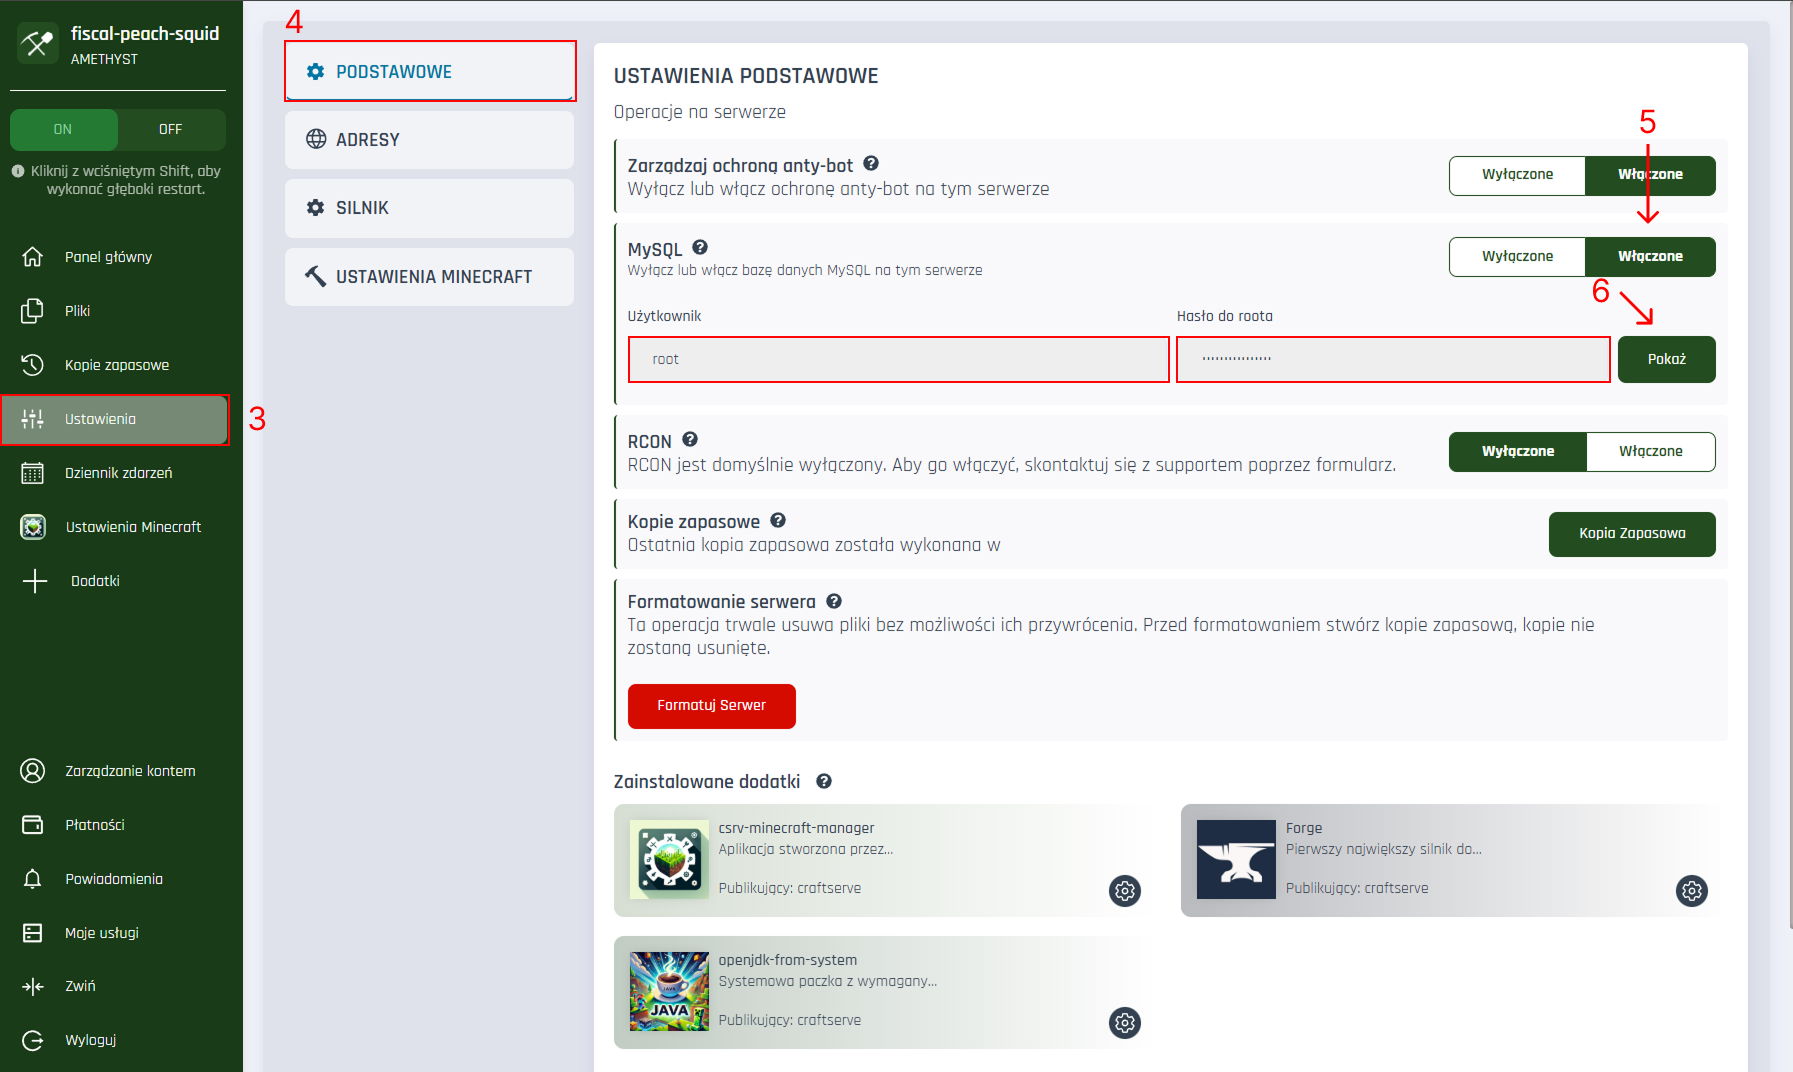
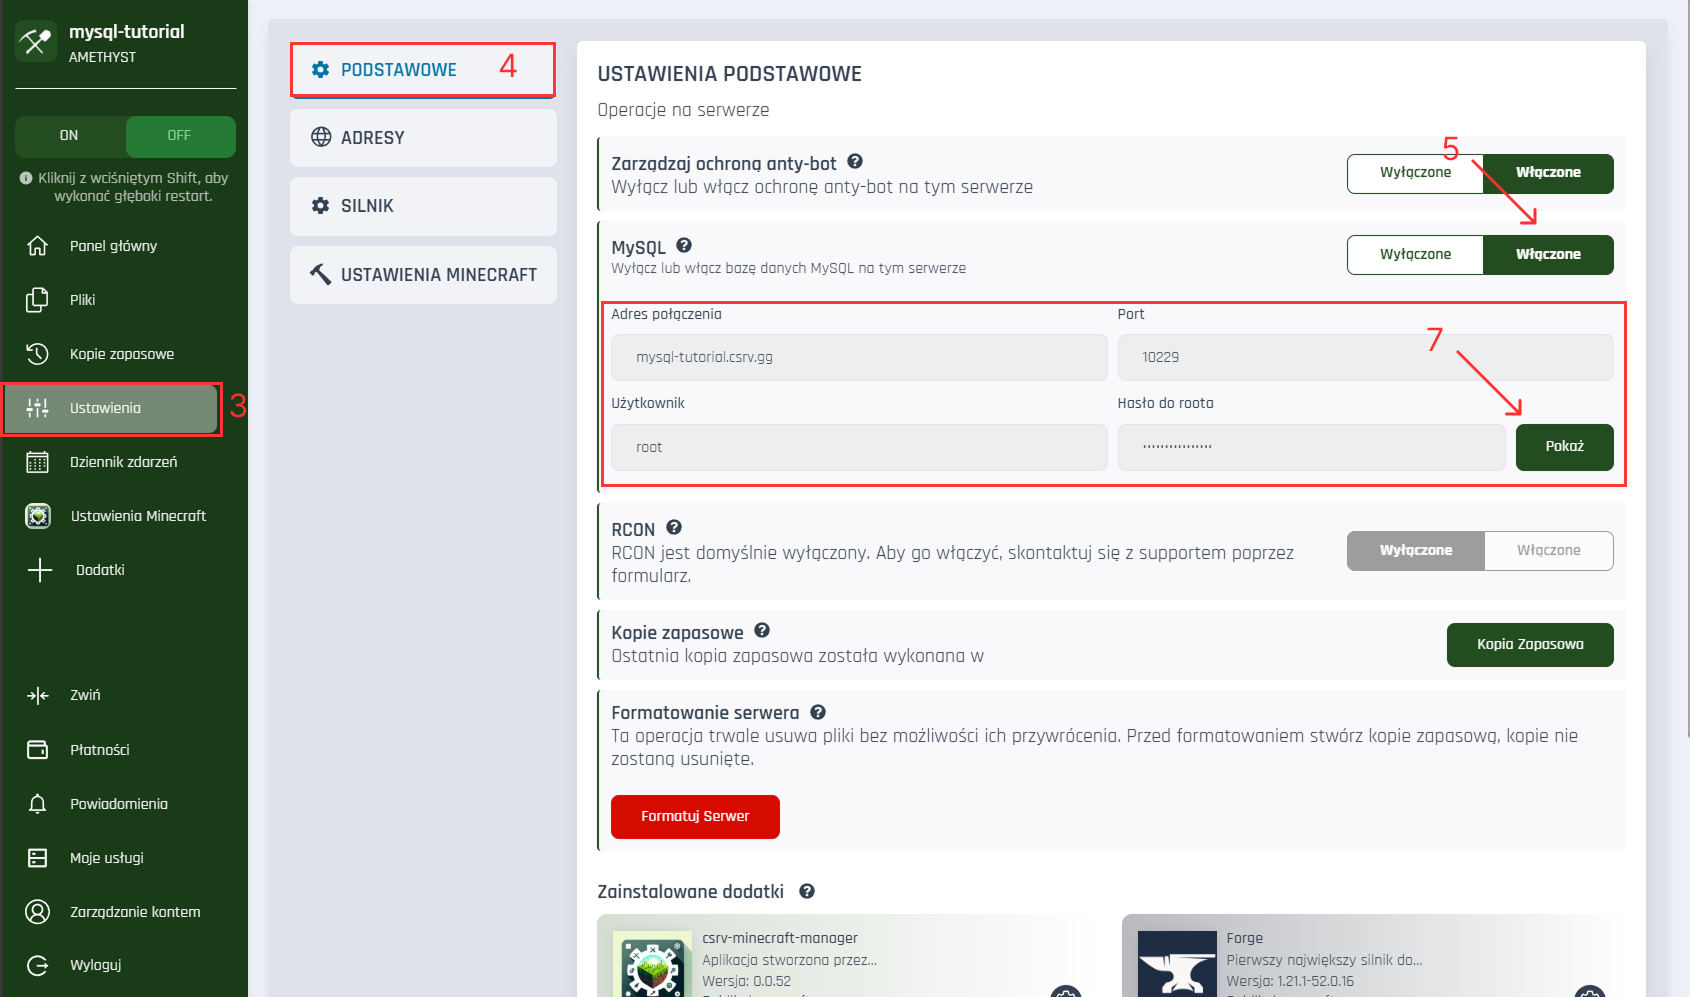
update mysql docs

diff --git a/docs/pl-PL/mysql.md b/docs/pl-PL/mysql.md
@@ -1,47 +1,99 @@
-## 🧠 Czym jest MySQL?
+---
 
-<p id="tooltip-data">
-MySQL to popularny system zarządzania relacyjnymi bazami danych. W kontekście serwera Minecraft, MySQL może być wykorzystywany do:
+# 🧠 Czym jest **MySQL**?
 
--   Przechowywania danych graczy (np. wtyczki typu auth, statystyki, systemy ekonomii),
--   Przechowywania konfiguracji pluginów,
--   Synchronizacji danych pomiędzy wieloma serwerami (np. BungeeCord, Velocity).
-</p>
+**MySQL** to popularny system zarządzania relacyjnymi bazami danych. W kontekście serwera Minecraft, może być wykorzystywany m.in. do:
 
-## 🔐 Dostępność MySQL
+* przechowywania danych graczy (np. dane logowania, statystyki, systemy ekonomii),
+* przechowywania konfiguracji pluginów,
+* synchronizacji danych między wieloma serwerami (np. przy użyciu BungeeCord lub Velocity).
+
+---
+
+# 🔐 Dostępność MySQL
 
 <div style="background-color:#ffe0e0; padding:10px; border-left:4px solid #ff4c4c; color: #000">
-<strong>Uwaga:</strong> Dostęp do MySQL mają wyłącznie serwery w planie <strong>Amethyst</strong>.
+<strong>Uwaga:</strong> Funkcja MySQL dostępna jest wyłącznie w planie <strong>Amethyst</strong>.
 </div>
 
-## ✅ Jak włączyć MySQL na serwerze?
+---
 
-Aby aktywować MySQL dla swojego serwera, postępuj zgodnie z poniższymi krokami:
+# ✅ Jak włączyć MySQL na serwerze?
 
-1. Przejdź do <a target="_blank" href="https://craftserve.com/account"><strong>Panelu</strong></a> zarządzania serwerami.
-2. Wybierz swój docelowy serwer.
-3. Z panelu bocznego wybierz opcję <strong>Ustawienia</strong>.
-4. Otwórz zakładkę <strong>Podstawowe</strong>.
-5. Znajdź opcję <strong>MySQL</strong> ustaw ją na <strong>Włączone</strong>.
-6. Po włączeniu, pojawi się hasło – kliknij przycisk <strong>"Pokaż"</strong>, aby je zobaczyć.
-   </br>
-   </br>
+Aby aktywować MySQL dla swojego serwera:
 
-![Mysql tutorial](./img/mysql/mysql_1.png)
+1. Przejdź do [panelu](https://craftserve.com/account).
+2. Wybierz odpowiedni serwer.
+3. W menu bocznym kliknij **Ustawienia**.
+4. Przejdź do zakładki **Podstawowe**.
+5. W sekcji **MySQL** ustaw opcję na **Włączone**.
+6. Zaakceptuj ostrzeżenie o konieczności uruchomienia lub zatrzymania serwera.
 
-## ⚙ Dane dostępowe do MySQL
+    > 🔴 **Uwaga:** Połączenie z MySQL będzie możliwe po zakończeniu procesu od uruchamiania/zatrzymywania serwera.
 
-| Parametr   | Wartość                                 |
-| ---------- | --------------------------------------- |
-| Host       | `127.0.0.1` (nie `localhost`)           |
-| Port       | `3306`                                  |
-| Użytkownik | `root`                                  |
-| Hasło      | Widoczne po kliknięciu "Pokaż" w panelu |
+7. Po włączeniu MySQL zobaczysz dane dostępowe: adres, port, użytkownik, hasło - kliknij przycisk **Pokaż**.
 
-## 🛠 Przykład połączenia z pluginem
+---
+
+![Włączanie MySQL](./img/mysql/mysql_1.png)
+
+---
+
+# 🔗 Jak połączyć się z MySQL?
+
+Do połączenia się z bazą danych MySQL potrzebny będzie klient. Polecamy darmowy program **HeidiSQL**:
+👉 [Pobierz HeidiSQL](https://www.heidisql.com/download.php)
+
+### Konfiguracja połączenia:
+
+1. Otwórz HeidiSQL i kliknij **Nowy** w lewym dolnym rogu.
+2. Wypełnij pola zgodnie z poniższą tabelą:
+
+| Pole               | Wartość z panelu Craftserve          |
+| ------------------ | ------------------------------------ |
+| **Typ połączenia** | `MariaDB or MySQL (TCP/IP)`          |
+| **Library**        | (pozostaw domyślne)                  |
+| **Nazwa hosta/IP** | Adres z pola `Adres połączenia`      |
+| **Użytkownik**     | `root`                               |
+| **Hasło**          | Hasło widoczne po kliknięciu „Pokaż” |
+| **Port**           | Port wyświetlany po aktywacji MySQL  |
+
+3. Kliknij **Otwórz**, aby nawiązać połączenie.
+
+![Połączenie z MySQL](./img/mysql/mysql_2.png)
+
+---
+
+# ❗ Problemy z połączeniem – co robić?
+
+### 🔄 Nie mogę się połączyć z bazą danych
+
+1. Przejdź do [panelu zarządzania serwerami](https://craftserve.com/account).
+2. Wybierz swój serwer.
+3. Przejdź do **Ustawień** → **Podstawowe**.
+4. Sprawdź, czy **MySQL** jest włączony.
+5. Jeśli problem nadal występuje:
+
+    - Upewnij się, że dane do połączenia są poprawne.
+    - Zrestartuj serwer, **przytrzymując klawisz SHIFT** podczas klikania przycisku **Uruchom** – wykona się tzw. _głęboki restart_.
+    - Po restarcie ponów próbę połączenia.
+
+---
+
+# ⚙ Dane do konfiguracji pluginów
+
+Użyj poniższych danych w plikach konfiguracyjnych pluginów:
+
+| Parametr       | Wartość                         |
+| -------------- | ------------------------------- |
+| **Host**       | `127.0.0.1` _(nie `localhost`)_ |
+| **Port**       | `3306`                          |
+| **Użytkownik** | `root`                          |
+| **Hasło**      | Dostępne w panelu               |
+
+### 📄 Przykład konfiguracji pluginu:
 
 ```yaml
-# Przykład konfiguracji pluginu
 mysql:
     host: 127.0.0.1
     port: 3306

diff --git a/docs/en-US/mysql.md b/docs/en-US/mysql.md
@@ -1,47 +1,97 @@
-## 🧠 What is MySQL?
+# 🧠 What is **MySQL**?
 
-<p id="tooltip-data">
-MySQL is a popular relational database management system. In the context of a Minecraft server, MySQL can be used for:
+**MySQL** is a popular relational database management system. In the context of a Minecraft server, it can be used for:
 
--   Storing player data (e.g., auth plugins, statistics, economy systems),
+-   Storing player data (e.g., login info, stats, economy systems),
 -   Storing plugin configurations,
--   Synchronizing data between multiple servers (e.g., BungeeCord, Velocity).
-</p>
+-   Synchronizing data across multiple servers (e.g., using BungeeCord or Velocity).
 
-## 🔐 MySQL Availability
+---
+
+# 🔐 MySQL Availability
 
 <div style="background-color:#ffe0e0; padding:10px; border-left:4px solid #ff4c4c; color: #000">
-<strong>Note:</strong> MySQL access is available only for servers on the <strong>Amethyst</strong> plan.
+<strong>Note:</strong> MySQL is only available on the <strong>Amethyst</strong> plan.
 </div>
 
-## ✅ How to enable MySQL on your server?
+---
 
-To activate MySQL for your server, follow these steps:
+# ✅ How to Enable MySQL on Your Server
 
-1. Go to the <a target="_blank" href="https://craftserve.com/account"><strong>panel</strong></a>.
-2. Select your target server.
-3. From the sidebar, choose the <strong>Settings</strong> option.
-4. Open the <strong>Basic</strong> tab.
-5. Find the <strong>MySQL</strong> option and set it to <strong>Enabled</strong>.
-6. After enabling it, a password will appear – click the <strong>"Show"</strong> button to view it.
-   </br>
-   </br>
+To enable MySQL for your server:
 
-![Mysql tutorial](./img/mysql/mysql_1.png)
+1. Go to the [dashboard](https://craftserve.com/account).
+2. Select your server.
+3. In the sidebar, click **Settings**.
+4. Go to the **Basic** tab.
+5. In the **MySQL** section, set the option to **Enabled**.
+6. Confirm the warning about starting or stopping the server.
 
-## ⚙ MySQL Access Details
+    > 🔴 **Note:** MySQL access will be available once the server has started or stopped.
 
-| Parameter | Value                                      |
-| --------- | ------------------------------------------ |
-| Host      | `127.0.0.1` (not `localhost`)              |
-| Port      | `3306`                                     |
-| User      | `root`                                     |
-| Password  | Visible after clicking "Show" in the panel |
+7. After enabling MySQL, you will see your connection details: host, port, user, password – click the **Show** button to reveal.
 
-## 🛠 Plugin Connection Example
+---
+
+![Enabling MySQL](./img/mysql/mysql_1.png)
+
+---
+
+# 🔗 How to Connect to MySQL
+
+To connect to the MySQL database, you’ll need a client. We recommend the free program **HeidiSQL**:  
+👉 [Download HeidiSQL](https://www.heidisql.com/download.php)
+
+### Connection Setup:
+
+1. Open HeidiSQL and click **New** in the bottom-left corner.
+2. Fill in the fields as follows:
+
+| Field               | Value from Craftserve Panel          |
+| ------------------- | ------------------------------------ |
+| **Connection Type** | `MariaDB or MySQL (TCP/IP)`          |
+| **Library**         | (leave default)                      |
+| **Hostname / IP**   | Value from the `Connection Address`  |
+| **User**            | `root`                               |
+| **Password**        | Password shown after clicking “Show” |
+| **Port**            | Port shown after MySQL is enabled    |
+
+3. Click **Open** to connect.
+
+![MySQL Connection](./img/mysql/mysql_2.png)
+
+---
+
+# ❗ Troubleshooting Connection Issues
+
+### 🔄 Can't connect to the database
+
+1. Go to the [dashboard](https://craftserve.com/account).
+2. Select your server.
+3. Navigate to **Settings** → **Basic**.
+4. Check if **MySQL** is enabled.
+5. If the issue persists:
+
+    - Make sure all connection credentials are correct.
+    - Restart the server by **holding SHIFT** while clicking the **Start** button – this triggers a _deep restart_.
+    - Try connecting again after the restart.
+
+---
+
+# ⚙ Plugin Configuration Details
+
+Use the following credentials in your plugin configuration files:
+
+| Parameter    | Value                           |
+| ------------ | ------------------------------- |
+| **Host**     | `127.0.0.1` _(not `localhost`)_ |
+| **Port**     | `3306`                          |
+| **User**     | `root`                          |
+| **Password** | Available in the panel          |
+
+### 📄 Plugin Configuration Example:
 
 ```yaml
-# Example plugin configuration
 mysql:
     host: 127.0.0.1
     port: 3306
